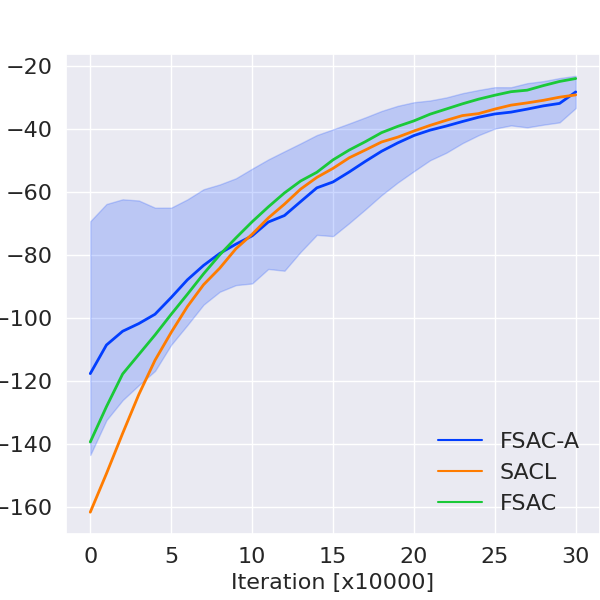
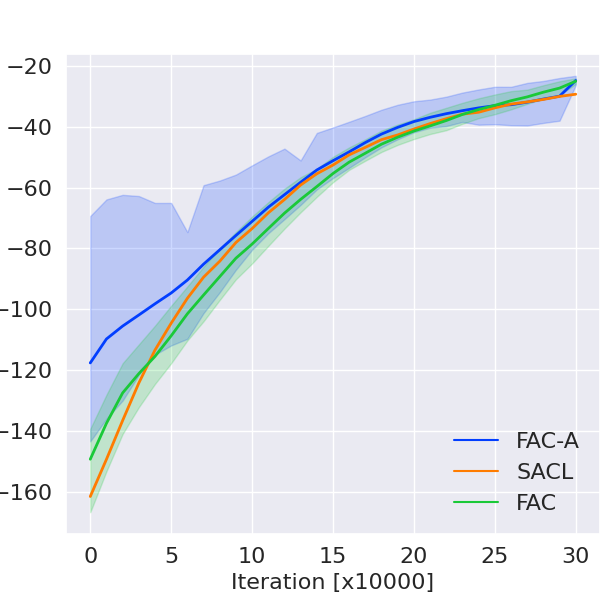
modify plots

diff --git a/train_scripts/train_script4fsac.py b/train_scripts/train_script4fsac.py
@@ -65,12 +65,12 @@ def built_FSAC_parser(alg_name):
     mode = parser.parse_args().mode
 
     if mode == 'testing':
-        test_dir = '../results/FSAC-A/Unicycle/Unicycle-2021-07-25-16-42-42'
+        test_dir = '../results/FSAC-A/Unicycle/data2plot2/Unicycle-2021-08-09-23-22-26'
         params = json.loads(open(test_dir + '/config.json').read())
         time_now = datetime.datetime.now().strftime("%Y-%m-%d-%H-%M-%S")
         test_log_dir = params['log_dir'] + '/tester/test-{}'.format(time_now)
         params.update(dict(test_dir=test_dir,
-                           test_iter_list=[1400000],
+                           test_iter_list=[200000],
                            test_log_dir=test_log_dir,
                            num_eval_episode=100,
                            num_eval_agent=1,
@@ -81,7 +81,7 @@ def built_FSAC_parser(alg_name):
             parser.add_argument("-" + key, default=val)
         return parser.parse_args()
 
-    parser.add_argument('--motivation', type=str, default='add clip')  # training testing
+    parser.add_argument('--motivation', type=str, default='change obstacle range 3')  # training testing
 
     # trainer
     parser.add_argument('--policy_type', type=str, default='PolicyWithAdaSafetyIndex')
@@ -90,7 +90,7 @@ def built_FSAC_parser(alg_name):
     parser.add_argument('--buffer_type', type=str, default='cost')
     parser.add_argument('--optimizer_type', type=str, default='OffPolicyAsyncWithCost')
     parser.add_argument('--off_policy', type=str, default=True)
-    parser.add_argument('--random_seed', type=int, default=6)
+    parser.add_argument('--random_seed', type=int, default=2)
     parser.add_argument('--penalty_start', type=int, default=0)
     parser.add_argument('--demo', type=bool, default=False)
 
@@ -110,10 +110,10 @@ def built_FSAC_parser(alg_name):
     parser.add_argument('--cost_lim', type=float, default=0.0)
     parser.add_argument('--mlp_lam', default=True)
     parser.add_argument('--double_QC', type=bool, default=False)
-    parser.add_argument('--adaptive_safety_index', type=bool, default=False)
+    parser.add_argument('--adaptive_safety_index', type=bool, default=True)
     parser.add_argument('--adaptive_si_start', type=int, default=100000)
-    parser.add_argument('--adaptive_si_interval', type=int, default=24)
-    parser.add_argument('--init_sis_paras', type=list, default=[0.1, 1.0, 2.0]) # # margin, k, power
+    parser.add_argument('--adaptive_si_interval', type=int, default=50)
+    parser.add_argument('--init_sis_paras', type=list, default=[0.3, 1.0, 2.0]) # # margin, k, power
 
     # worker
     parser.add_argument('--batch_size', type=int, default=128)
@@ -157,7 +157,7 @@ def built_FSAC_parser(alg_name):
     if alpha == 'auto':
         parser.add_argument('--target_entropy', type=float, default=-2)
     parser.add_argument('--alpha_lr_schedule', type=list, default=[8e-5, 2000000, 8e-6])
-    parser.add_argument('--k_lr_schedule', type=list, default=[8e-6, 100000, 1e-6])
+    parser.add_argument('--k_lr_schedule', type=list, default=[2e-5, 100000, 1e-6])
     parser.add_argument('--policy_only', type=bool, default=False)
     parser.add_argument('--double_Q', type=bool, default=True)
     parser.add_argument('--target', type=bool, default=True)
@@ -173,7 +173,7 @@ def built_FSAC_parser(alg_name):
     # preprocessor
     parser.add_argument('--obs_ptype', type=str, default='scale')
     num_future_data = parser.parse_args().num_future_data
-    parser.add_argument('--obs_scale', type=list, default=[1.0, 1.0, 1.0, 1 / 3.14])
+    parser.add_argument('--obs_scale', type=list, default=[1.0, 1.0, 1.0, 1 / 3.14, 1 / 3.0])
     parser.add_argument('--rew_ptype', type=str, default='scale')
     parser.add_argument('--rew_scale', type=float, default=1.)
     parser.add_argument('--rew_shift', type=float, default=0.)
@@ -262,4 +262,4 @@ def main(alg_name):
 
 
 if __name__ == '__main__':
-    main('FSAC')
+    main('FSAC-A')

diff --git a/envs_and_models/collision_avoidance_env.py b/envs_and_models/collision_avoidance_env.py
@@ -24,8 +24,8 @@ class UnicycleEnv(gym.Env):
         self.rew_coef = np.array([1., 1., 1., 0.1])
         self.phi = None
         self.sis_info = dict()
-        self.observation_space = gym.spaces.Box(low=np.array([-10.0, -10.0, -2.0, -np.pi]),
-                                                high=np.array([10.0, 10.0, 2.0, np.pi]))
+        self.observation_space = gym.spaces.Box(low=np.array([-10.0, -10.0, -2.0, -np.pi, -5.0]),
+                                                high=np.array([10.0, 10.0, 2.0, np.pi, 5.0]))
         self.action_space = gym.spaces.Box(low=np.array([-4.0, -np.pi])
                                            , high=np.array([4.0, np.pi]))
         self.sis_paras = None
@@ -76,6 +76,7 @@ class UnicycleEnv(gym.Env):
         # state, reward, done, info
         info = {}
         info.update(dict(cost=self.compute_cost()))
+        info.update(dict(obs_y=self.obstacle_center_y))
         old_phi = self.phi
         self.phi = self.adaptive_safety_index()  # the self.phi only works with evaluator with fixed sis_paras
         if old_phi <= 0:
@@ -86,12 +87,13 @@ class UnicycleEnv(gym.Env):
         # update info dict
         info.update({'delta_phi': delta_phi})
         info.update(self.sis_info)
-        return np.squeeze(np.array(self.state)), rew, done, info
+        obs = np.append(np.squeeze(np.array(self.state)), self.obstacle_center_y)
+        return obs, rew, done, info
 
     def reset(self):
         self.state = np.array([0., -1.5, 1. + random.random(),
                                random.random() * np.pi / 2 + np.pi / 4])  # random.random() * np.pi / 2 + np.pi / 4
-        self.obstacle_center_y = random.random() - 0.5
+        self.obstacle_center_y = 3 * random.random() - 0.5
         self.phi = self.adaptive_safety_index()
         self.ref = np.zeros_like(self.state)
         self.step_cnt = 0

diff --git a/buffer.py b/buffer.py
@@ -183,7 +183,9 @@ class ReplayBufferWithCost(object):
         import pandas as pd
         import matplotlib.pyplot as plt
         data_to_count = np.stack(np.array(self._storage)[:, 0])
-        xy_data_to_count = data_to_count[:, :2]
+        x_data_to_count = np.abs(data_to_count[:, 0])
+        y_data_to_count = np.abs(data_to_count[:, 1] - data_to_count[:, -1])
+        dist = np.stack([x_data_to_count, y_data_to_count]).T
         blocks = np.linspace(state_range[0], state_range[1], int(num + 1))
         df_list = []
 
@@ -193,7 +195,7 @@ class ReplayBufferWithCost(object):
                 y_low, y_high = blocks[j], blocks[j + 1]
                 low = np.array([x_low, y_low])
                 high = np.array([x_high, y_high])
-                t_or_f = (xy_data_to_count > low) & (xy_data_to_count < high)
+                t_or_f = (dist > low) & (dist < high)
                 count = np.logical_and(t_or_f[:,0], t_or_f[:,1]).sum()
                 df = pd.DataFrame(dict(x=[x_low], y=[y_low], count=[count]))
                 df_list.append(df)

diff --git a/data_process/lineplot.py b/data_process/lineplot.py
@@ -19,7 +19,7 @@ DIV_LINE_WIDTH = 50
 txt_store_alg_list = ['CPO', 'PPO-Lagrangian']
 
 def help_func():
-    tag2plot = ['episode_cost'] # , 'safety_index_margin', 'safety_index_power'
+    tag2plot = ['episode_return'] # , 'safety_index_margin', 'safety_index_power'
     alg_list = [ 'FSAC-A', 'SACL', 'FSAC',] # 'SACL', 'FSAC',
     lbs = [  'FAC-A', 'SACL', 'FAC', ] # 'SAC', 'SACL', 'FAC',  'margin', 'power'
     task = ['Unicycle']
